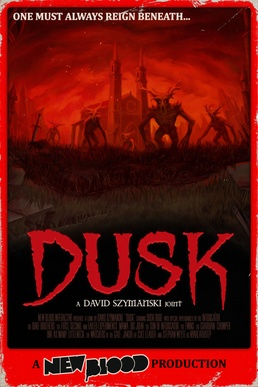
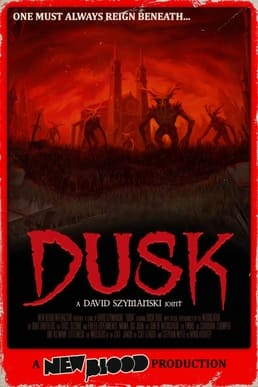
Compressed images + added news section

diff --git a/index.html b/index.html
@@ -3,12 +3,13 @@
 
     <head>
         <meta name="viewport" content="width=device-width, initial-scale=1.0">
+        <meta name="description" content="Official website of Jules Gomel, a researcher, brain enthusiast and loving video games, board games, reading and music. Explore my work and my hobbies.">
         <link rel="stylesheet" href="https://fonts.googleapis.com/css2?family=Lora:wght@400;700&display=swap">
         <link rel="stylesheet" href="style.css">
         <link rel="shortcut icon" href="assets/img/icon_fav.png" type="image/png">
         <link rel="preconnect" href="https://fonts.gstatic.com">
         <script src="https://kit.fontawesome.com/f980ba732e.js" crossorigin="anonymous"></script>
-        <title>Jules Gomel</title>
+        <title>Jules Gomel - Researcher and brain enthusiast</title>
 
         
         <!-- Google tag (gtag.js) -->
@@ -37,9 +38,9 @@
                 </ul>
             </nav>
             <section class="profile-section">
-                <img src="assets/img/julesGL.jpg" alt="Picture of my face" class="profile-image">
+                <img src="assets/img/julesGL.jpg" alt="Jules GOMEL" class="profile-image">
                 <div class="header-content">
-                    <h1 class="retro-font">Welcome to my website !</h1>
+                    <h1 class="retro-font">Jules GOMEL</h1>
                 </div>
             </section>
         </header>
@@ -47,10 +48,24 @@
         <main>
             <section id="about-me">
                 <h2>About me</h2>
-                <p>I'm <b>Jules GOMEL</b>, a final year French student in ISAE-Supaero MSc, focused on Neurosciences and AI.</p>
-                <p>I'm currently doin my end-of-study internship as a <b>Research Engineer Intern</b> in Neuroengineering at ISAE-Supaero <a href="https://websites.isae-supaero.fr/experiences-en-neuroergonomie/">Neuroergonomics and Human Factor lab</a> under the supervision of Dr. Frédéric Dehais.</p>
+                <p>Welcome to my website ! I'm <b>Jules GOMEL</b>, a final year French master student in ISAE-Supaero MSc, focused on Neurosciences and AI.</p>
+                <p>I'm currently doing my end-of-study internship as a <b>Research Engineer Intern</b> in Neuroengineering at ISAE-Supaero <a href="https://websites.isae-supaero.fr/experiences-en-neuroergonomie/">Neuroergonomics and Human Factor lab</a> under the supervision of Dr. Frédéric Dehais.</p>
                 <p>I will be starting a PhD focused on BCI in late 2024 so let's keep contact if you want to know more ! I am very active on <a href="https://www.linkedin.com/in/julesgomel/">LinkedIn</a>, where I talk about research !</p>         
 
+            </section>
+
+            <section id="news">
+                <h2>My latest news</h2>
+                <div class="project-list">
+                    <div class="project-item">
+                        <img src="assets/img/podcast.jpg" alt="Podcast Jules GOMEL and Benjamin Delteil" class="project-image">
+                        <div class="project-details">
+                            <h4 class="project-title">Participation to Neuroview Podcast</h4>
+                            <p class="project-description">On the 20th of July, I've been invited by Benjamin Delteil to participate to his podcast Neuroview ! During this discussion, we talk about my academic journey in neuroengineering ! Stay tuned for more updates !</p>
+                        </div>
+                    </div>
+                    
+                </div>
             </section>
 
 
